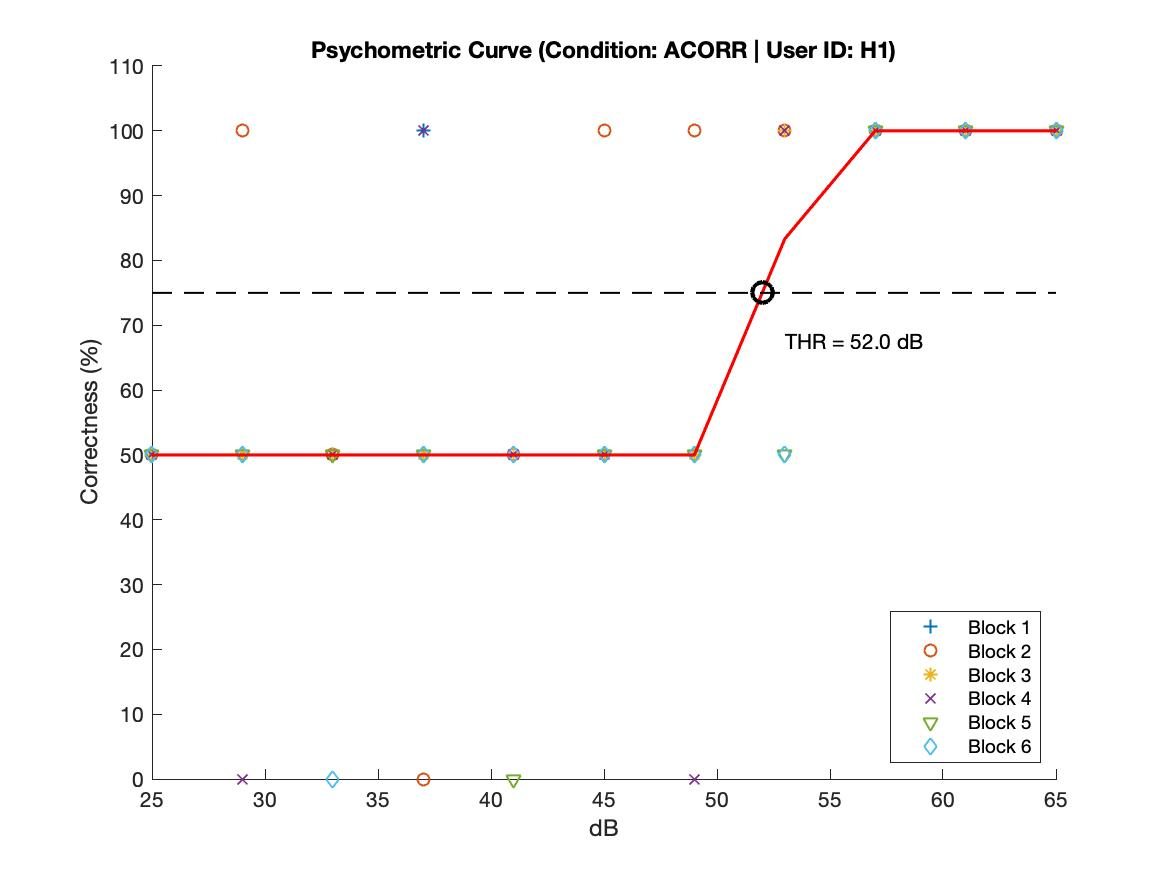
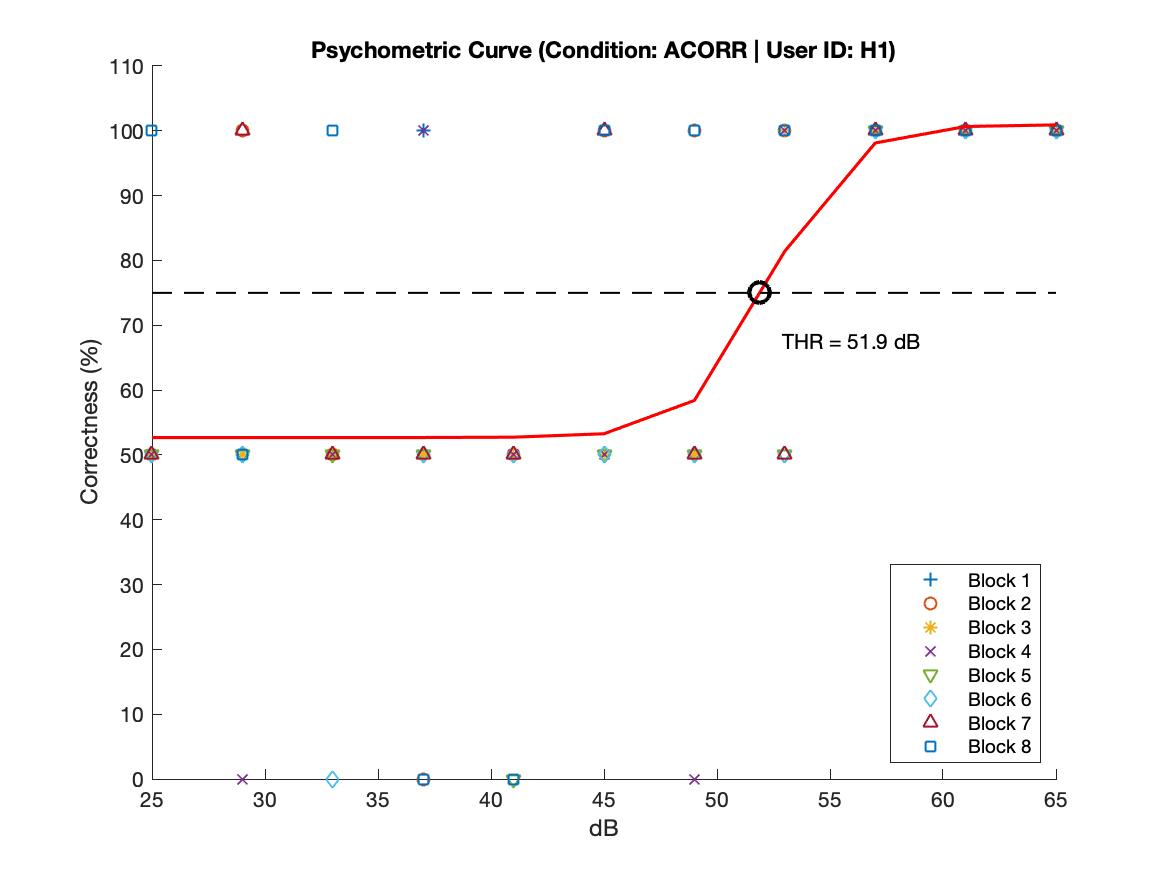
Psychometric Geneteration Curves

diff --git a/CMR_stimgeneration/PsychometricCurve_CMR.m b/CMR_stimgeneration/PsychometricCurve_CMR.m
@@ -100,7 +100,8 @@ hold off;
 figure(2); % CORR
 hold on;
 title(CORRplot); xlabel('Tone Level (dB)'); ylabel('Correctness (%)'); xlim([levelVEC_tone_dBSPL(1) levelVEC_tone_dBSPL(end)]); ylim([0,110]);
-fitPsychometricFunctionCMR(CORRresults_avg(:,1), CORRresults_avg(:,(blocks+2)), 1, criteria);
+%fitPsychometricFunctionCMR(CORRresults_avg(:,1), CORRresults_avg(:,(blocks+2)), 1, criteria);
+plot(CORRresults_avg(:,1), CORRresults_avg(:,(blocks+2)), 'r', 'linewidth',1.5);
 legend(plotlegend(1:blocks,:),'Location','SouthEast');
 hold off;
 
